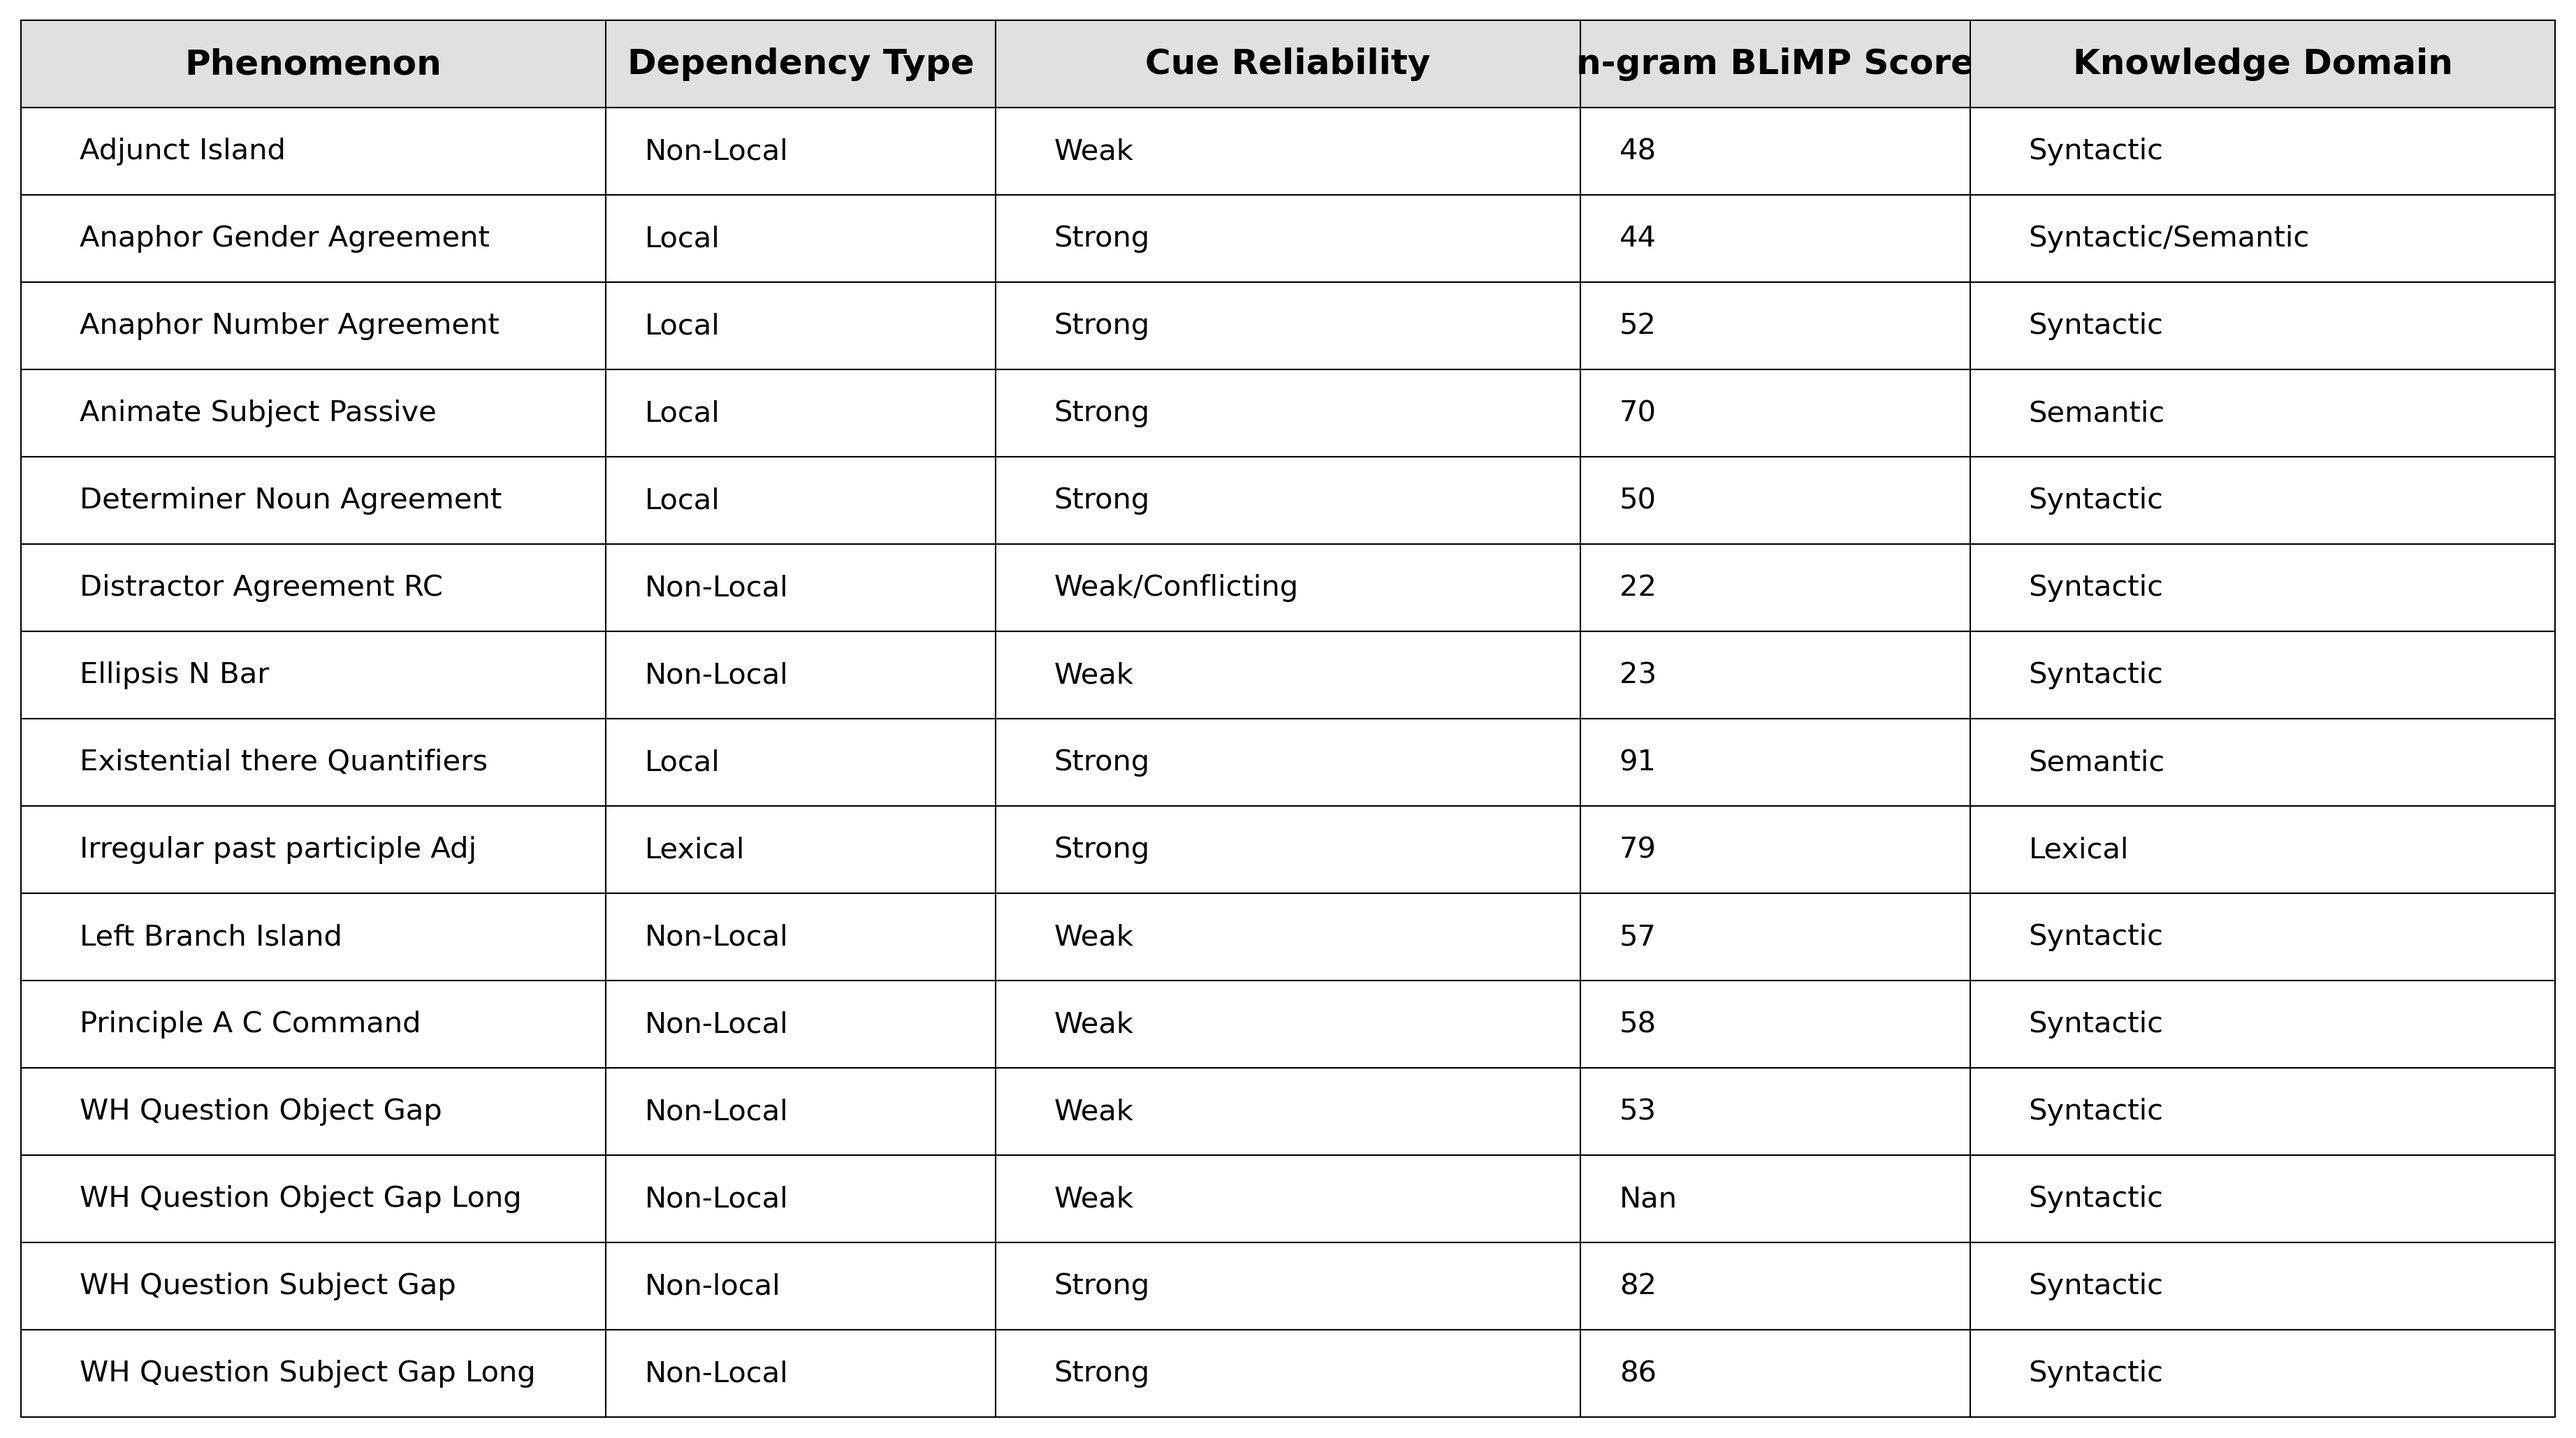
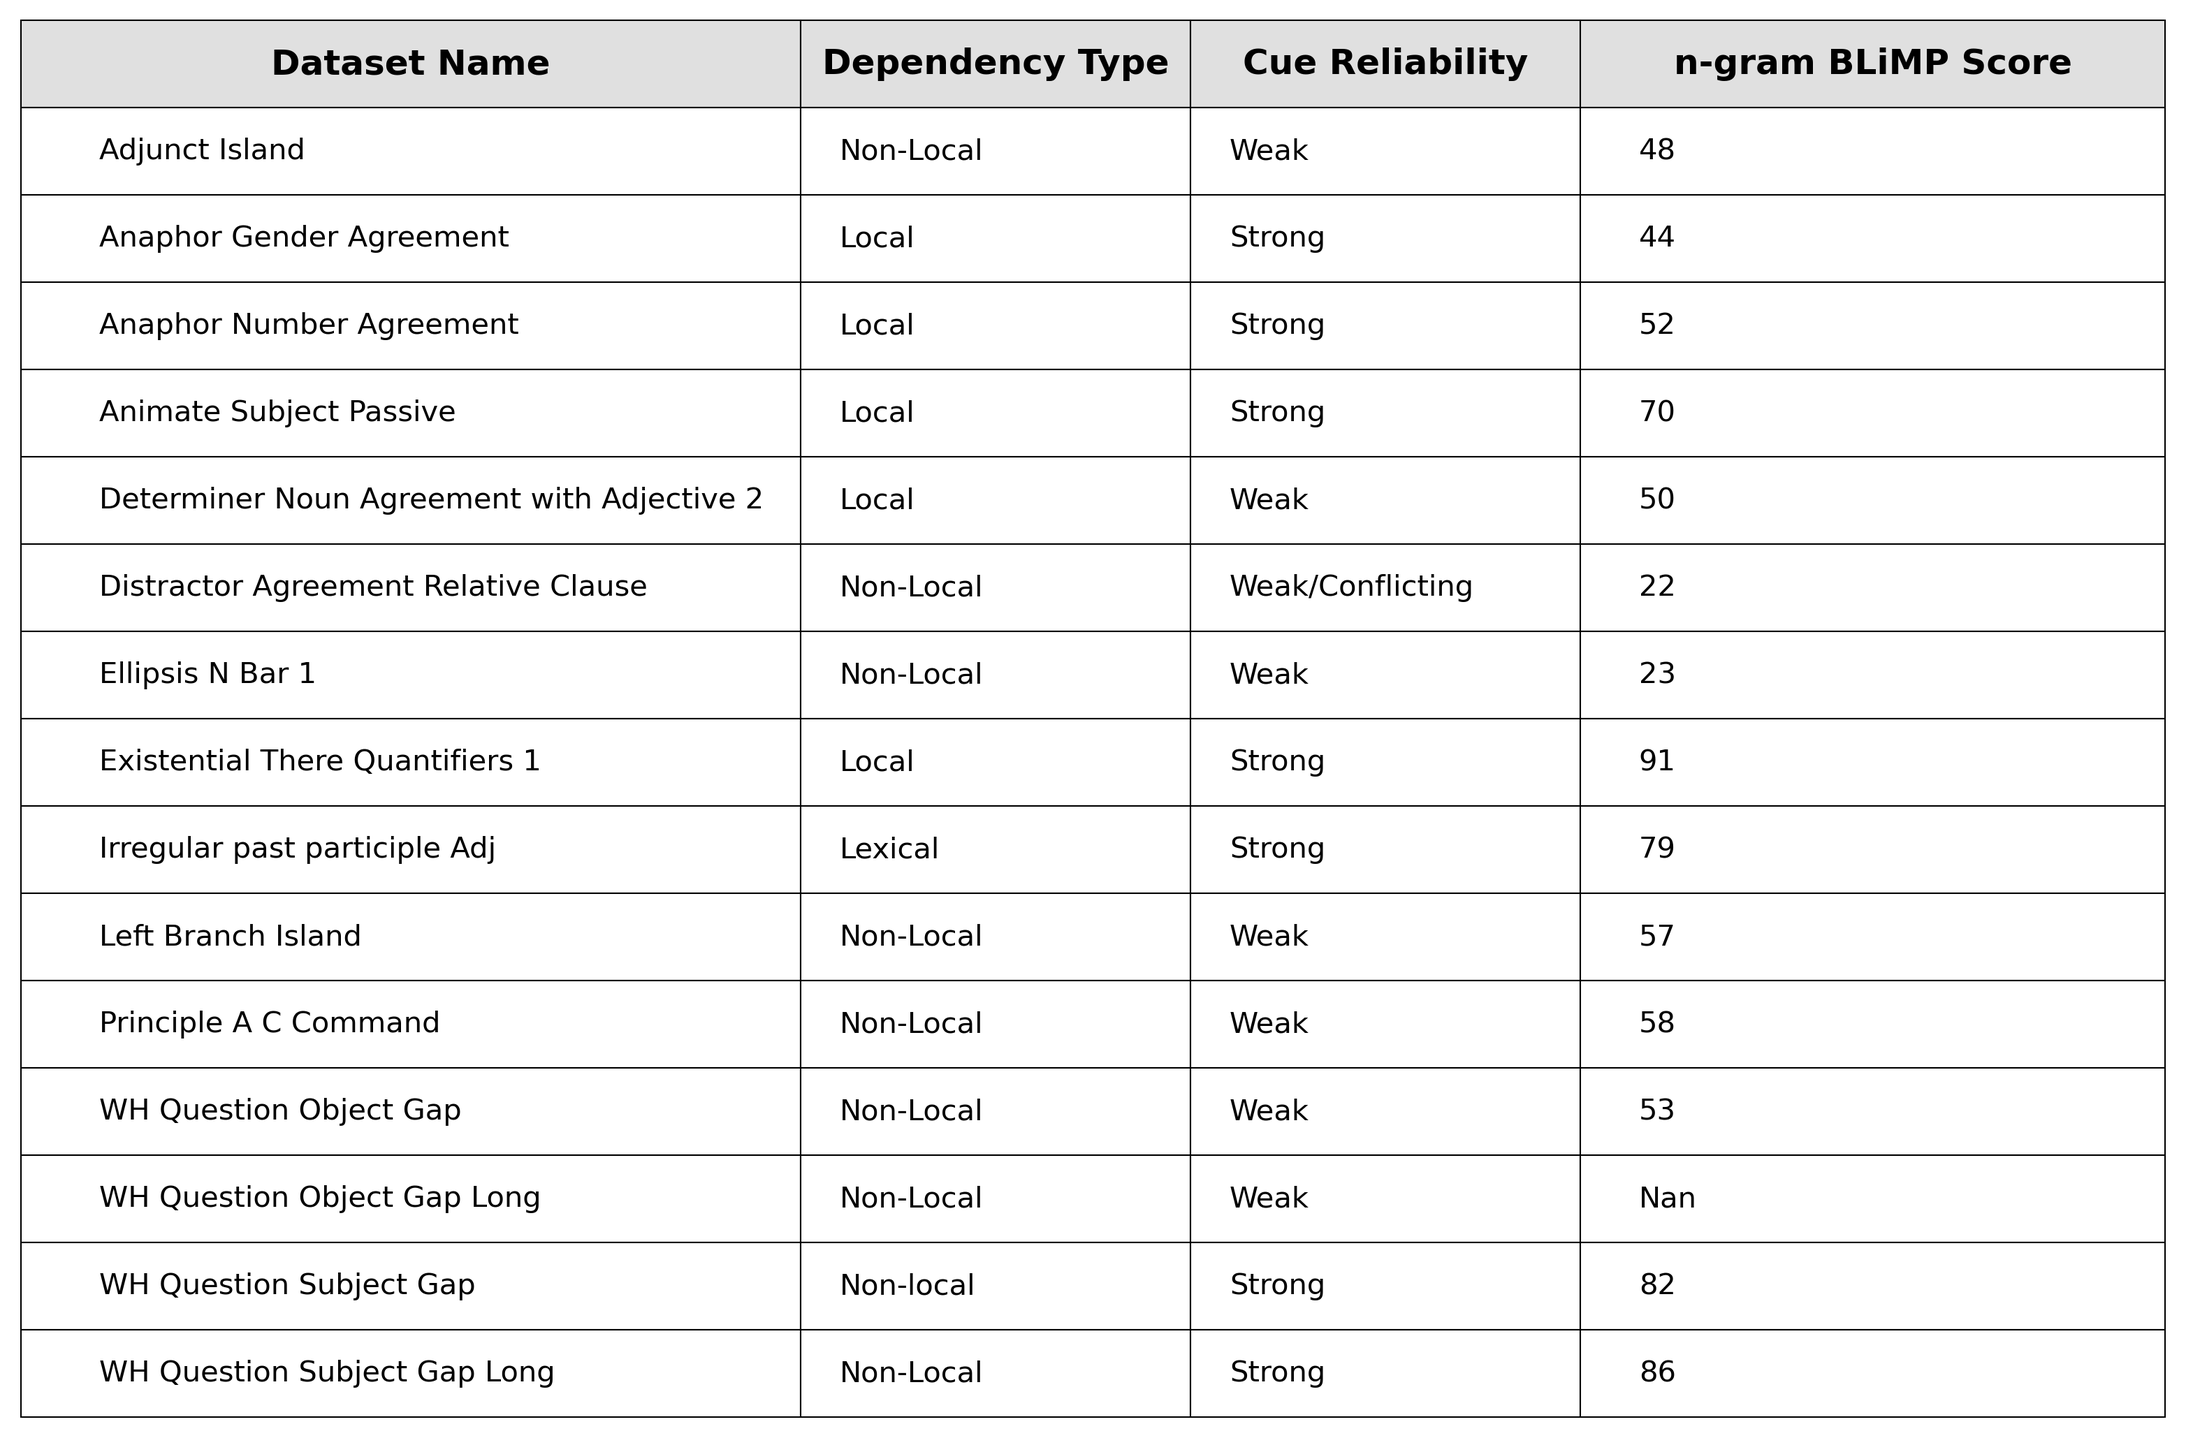
Add n-gram based scores classification of grammatical phenomena

diff --git a/data_generation/generation_projects/impossible_blimp/generate_grammatical_phenomena_table.py b/data_generation/generation_projects/impossible_blimp/generate_grammatical_phenomena_table.py
@@ -31,7 +31,7 @@ def generate_grammatical_phenomena_classification_table():
         colLabels=table_data.columns,
         cellLoc='left',
         loc='center',
-        colWidths=[0.3, 0.2, 0.3, 0.2, 0.3]
+        colWidths=[0.4, 0.2, 0.2, 0.3]
     )
 
     the_table.auto_set_font_size(False)
